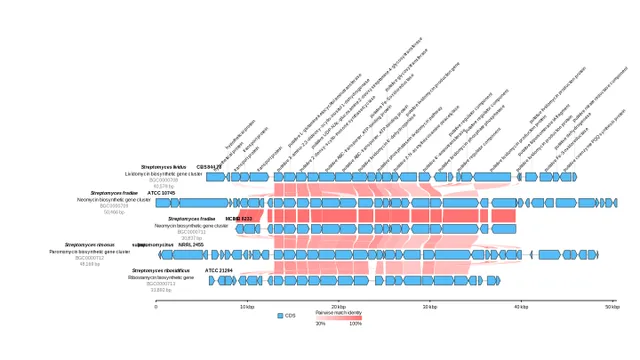
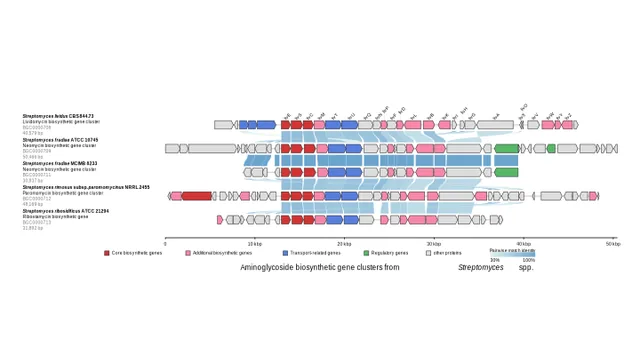
renew gallery files automatically

diff --git a/gbdraw/web/js/config.js b/gbdraw/web/js/config.js
@@ -1,5 +1,5 @@
 export const GBDRAW_WHEEL_NAME = "gbdraw-0.13.0-py3-none-any.whl";
-export const GBDRAW_WHEEL_CACHE_BUST = "20260702-161618";
+export const GBDRAW_WHEEL_CACHE_BUST = "20260702-165647";
 export const PYODIDE_INDEX_URL = "./vendor/pyodide/v0.29.0/full/";
 export const PYODIDE_LOCAL_WHEELS = [
   "./vendor/pyodide-wheels/six-1.17.0-py2.py3-none-any.whl",

diff --git a/tests/test_refresh_gallery_sessions.py b/tests/test_refresh_gallery_sessions.py
@@ -1,0 +1,122 @@
+from __future__ import annotations
+
+from pathlib import Path
+
+from tools.refresh_gallery_sessions import (
+    _preserve_gallery_cli_invocation,
+    _with_interactive_svg_format,
+)
+
+
+def test_with_interactive_svg_format_replaces_existing_format() -> None:
+    assert _with_interactive_svg_format(["-o", "out", "-f", "svg"]) == [
+        "-o",
+        "out",
+        "-f",
+        "interactive_svg",
+    ]
+    assert _with_interactive_svg_format(["--format=svg"]) == [
+        "--format=interactive_svg"
+    ]
+    assert _with_interactive_svg_format(["--gbk", "input.gb"]) == [
+        "--gbk",
+        "input.gb",
+        "-f",
+        "interactive_svg",
+    ]
+
+
+def test_preserve_gallery_cli_invocation_keeps_original_render_args() -> None:
+    source_session = {
+        "cliInvocation": {
+            "schema": 1,
+            "mode": "circular",
+            "args": [
+                "--definition_line_style",
+                "name:font_weight=bold",
+                "--circular_track_slot",
+                "a_skew_2:dinucleotide_skew@w=0.1,nt=AT,legend_label=AT skew",
+                "--conservation_blast",
+                "comparison.tsv",
+                "--gbk",
+                "input.gb",
+                "-f",
+                "svg",
+            ],
+            "renderFormats": ["svg"],
+            "fileBindings": [
+                {
+                    "argIndex": 5,
+                    "slot": "files.c_conservation_blasts[0]",
+                    "name": "comparison.tsv",
+                },
+                {"argIndex": 7, "slot": "files.c_gb", "name": "input.gb"},
+            ],
+            "generatedBy": "gbdraw",
+        },
+    }
+    refreshed_session = {
+        "cliInvocation": {
+            "schema": 1,
+            "mode": "circular",
+            "args": ["--gbk", "input.gb", "-f", "interactive_svg"],
+            "renderFormats": ["interactive-svg"],
+            "fileBindings": [
+                {"argIndex": 1, "slot": "files.c_gb", "name": "input.gb"}
+            ],
+            "generatedBy": "gbdraw",
+        },
+    }
+
+    preserved = _preserve_gallery_cli_invocation(
+        source_session,
+        refreshed_session,
+        mode="circular",
+    )
+
+    assert preserved is True
+    args = refreshed_session["cliInvocation"]["args"]
+    assert "--definition_line_style" in args
+    assert "--circular_track_slot" in args
+    assert any("AT skew" in arg for arg in args)
+    assert "--conservation_blast" in args
+    assert args[-2:] == ["-f", "interactive_svg"]
+    assert refreshed_session["cliInvocation"]["renderFormats"] == ["interactive-svg"]
+    assert (
+        refreshed_session["cliInvocation"]["fileBindings"]
+        == source_session["cliInvocation"]["fileBindings"]
+    )
+
+
+def test_preserve_gallery_cli_invocation_reports_missing_source_cli() -> None:
+    refreshed_session = {
+        "cliInvocation": {
+            "schema": 1,
+            "mode": "circular",
+            "args": ["--gbk", "input.gb", "-f", "interactive_svg"],
+        },
+    }
+
+    preserved = _preserve_gallery_cli_invocation(
+        {"config": {"form": {"prefix": "old"}}},
+        refreshed_session,
+        mode="circular",
+    )
+
+    assert preserved is False
+    assert refreshed_session["cliInvocation"]["args"] == [
+        "--gbk",
+        "input.gb",
+        "-f",
+        "interactive_svg",
+    ]
+
+
+def test_prepare_gallery_assets_rewrites_existing_example_svgs() -> None:
+    source = Path("tools/prepare_interactive_gallery_assets.py").read_text(
+        encoding="utf-8"
+    )
+
+    assert "def _write_gallery_svg(" in source
+    assert "_write_gallery_svg(example, session)" in source
+    assert "if example.gallery_svg_path.exists()" not in source

diff --git a/tools/refresh_gallery_sessions.py b/tools/refresh_gallery_sessions.py
@@ -2,19 +2,22 @@
 from __future__ import annotations
 
 import argparse
+import copy
 import os
 import shutil
 import subprocess
 import sys
 import tempfile
+from collections.abc import Mapping
 from pathlib import Path
+from typing import Any
 
 
 REPO_ROOT = Path(__file__).resolve().parents[1]
 if str(REPO_ROOT) not in sys.path:
     sys.path.insert(0, str(REPO_ROOT))
 
-from gbdraw.session_io import load_session, session_mode  # noqa: E402
+from gbdraw.session_io import load_session, session_mode, write_session_json  # noqa: E402
 
 
 GALLERY_ROOT = REPO_ROOT / "gbdraw" / "web" / "gallery"
@@ -38,11 +41,74 @@ def _session_path(name_or_id: str) -> Path:
     return SESSION_ROOT / name
 
 
+def _session_cli_invocation(session: Mapping[str, Any]) -> Mapping[str, Any] | None:
+    cli = session.get("cliInvocation")
+    if isinstance(cli, Mapping) and isinstance(cli.get("args"), list):
+        return cli
+    config = session.get("config")
+    if isinstance(config, Mapping):
+        cli = config.get("cliInvocation")
+        if isinstance(cli, Mapping) and isinstance(cli.get("args"), list):
+            return cli
+    return None
+
+
+def _with_interactive_svg_format(args: list[Any]) -> list[str]:
+    updated: list[str] = []
+    index = 0
+    found_format = False
+    while index < len(args):
+        token = str(args[index])
+        if token in {"-f", "--format"}:
+            updated.append(token)
+            updated.append("interactive_svg")
+            index += 2 if index + 1 < len(args) else 1
+            found_format = True
+            continue
+        if token.startswith("--format="):
+            updated.append("--format=interactive_svg")
+            index += 1
+            found_format = True
+            continue
+        updated.append(token)
+        index += 1
+    if not found_format:
+        updated.extend(["-f", "interactive_svg"])
+    return updated
+
+
+def _preserve_gallery_cli_invocation(
+    source_session: Mapping[str, Any],
+    refreshed_session: dict[str, Any],
+    *,
+    mode: str,
+) -> bool:
+    source_cli = _session_cli_invocation(source_session)
+    if source_cli is None:
+        return False
+
+    preserved_cli = copy.deepcopy(dict(source_cli))
+    preserved_cli["schema"] = 1
+    preserved_cli["mode"] = mode
+    preserved_cli["args"] = _with_interactive_svg_format(list(source_cli["args"]))
+    preserved_cli["renderFormats"] = ["interactive-svg"]
+    preserved_cli.setdefault("fileBindings", [])
+    preserved_cli.setdefault("generatedBy", "gbdraw")
+    refreshed_session["cliInvocation"] = preserved_cli
+    return True
+
+
 def _refresh_one_session(session_path: Path) -> None:
     session = load_session(session_path)
     mode = session_mode(session)
     if mode not in {"circular", "linear"}:
         raise RuntimeError(f"Could not determine gallery session mode: {session_path}")
+    if _session_cli_invocation(session) is None:
+        print(
+            "Skipping gallery session without cliInvocation; "
+            f"leaving existing output unchanged: {session_path.relative_to(REPO_ROOT)}"
+        )
+        return
 
     env = os.environ.copy()
     env["PYTHONPATH"] = (
@@ -70,6 +136,13 @@ def _refresh_one_session(session_path: Path) -> None:
             env=env,
             check=True,
         )
+        refreshed_payload = load_session(refreshed_session)
+        _preserve_gallery_cli_invocation(
+            session,
+            refreshed_payload,
+            mode=mode,
+        )
+        write_session_json(refreshed_session, refreshed_payload)
         load_session(refreshed_session)
         shutil.move(str(refreshed_session), session_path)
 

diff --git a/tools/prepare_interactive_gallery_assets.py b/tools/prepare_interactive_gallery_assets.py
@@ -33,7 +33,6 @@ class GallerySessionExample:
     description: str = ""
     interactive_step: str = ""
     source_note: str = "Session JSON and generated SVG output are stored with the gallery assets."
-    generate_output_from_session: bool = False
     command: str = ""
 
     @property
@@ -158,21 +157,18 @@ EXAMPLES: tuple[GallerySessionExample, ...] = (
         id="BGC0000708-BGC0000713",
         title="Aminoglycoside biosynthetic gene clusters from <i>Streptomyces</i> spp.",
         tags=("Linear", "LOSAT", "Orthogroup"),
-        generate_output_from_session=True,
         command=BGC_COMMAND,
     ),
     GallerySessionExample(
         id="HmmtDNA_ATskew",
         title="<i>Homo sapiens</i> mitochondrion (AT skew)",
         tags=("Circular", "Mitochondrion"),
-        generate_output_from_session=True,
         command=HMMTDNA_ATSKEW_COMMAND,
     ),
     GallerySessionExample(
         id="WSSV_genome_comparison",
         title="White spot syndrome virus genome comparison",
         tags=("Circular", "Conservation", "LOSAT"),
-        generate_output_from_session=True,
         command=WSSV_COMMAND,
     ),
 )
@@ -315,9 +311,7 @@ def _write_source_svg(example: GallerySessionExample, session: dict[str, Any]) -
     example.source_svg_path.write_text(_session_result_svg(session, example), encoding="utf-8")
 
 
-def _write_gallery_svg_if_missing(example: GallerySessionExample, session: dict[str, Any]) -> None:
-    if example.gallery_svg_path.exists() and not example.generate_output_from_session:
-        return
+def _write_gallery_svg(example: GallerySessionExample, session: dict[str, Any]) -> None:
     source = _session_result_svg(session, example)
     enriched = enrich_svg(source, context=_session_interactive_context(session))
     example.gallery_svg_path.write_text(enriched, encoding="utf-8")
@@ -391,7 +385,7 @@ def prepare_gallery_assets() -> list[dict[str, object]]:
     for example in EXAMPLES:
         session = _load_session(example)
         _write_source_svg(example, session)
-        _write_gallery_svg_if_missing(example, session)
+        _write_gallery_svg(example, session)
         _validate_source_assets(example)
         _render_thumbnail(example)
 